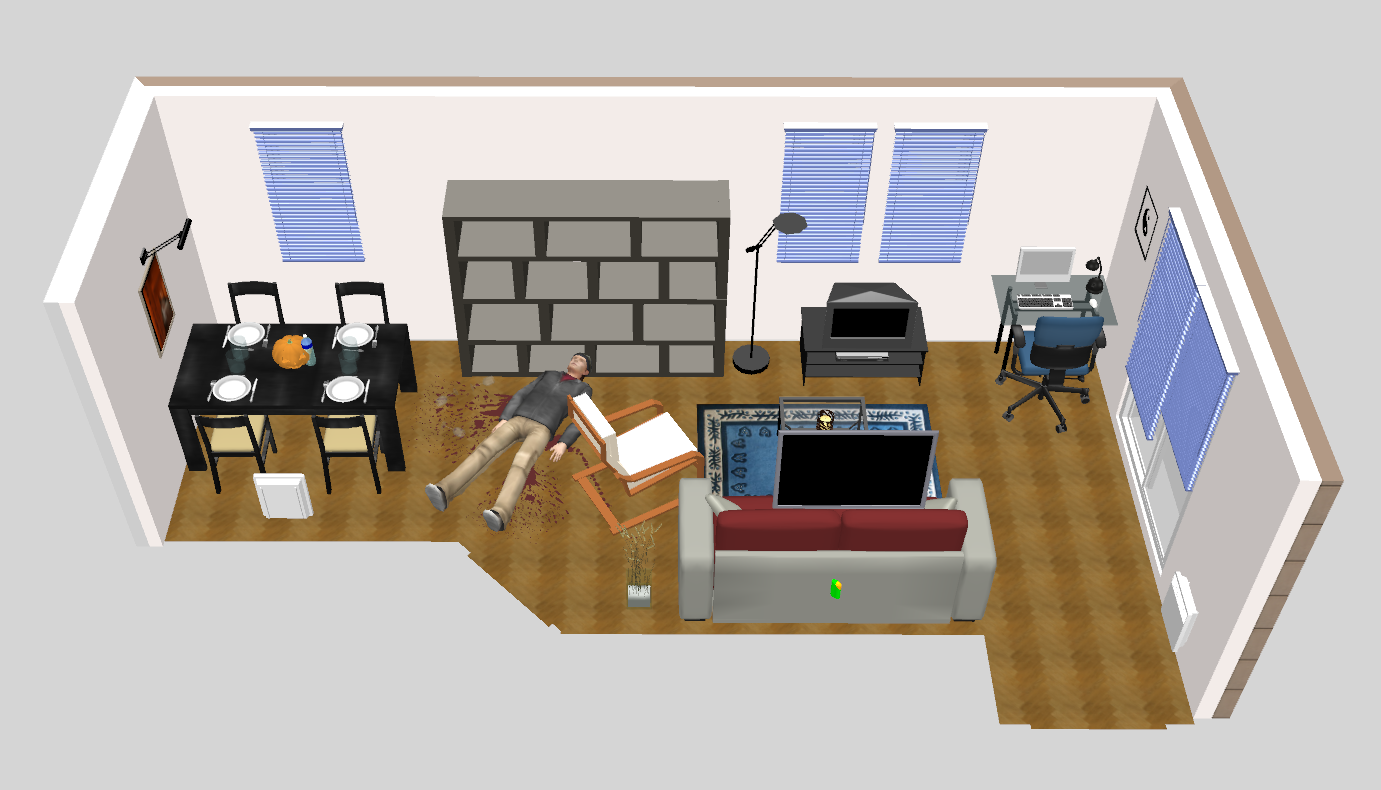
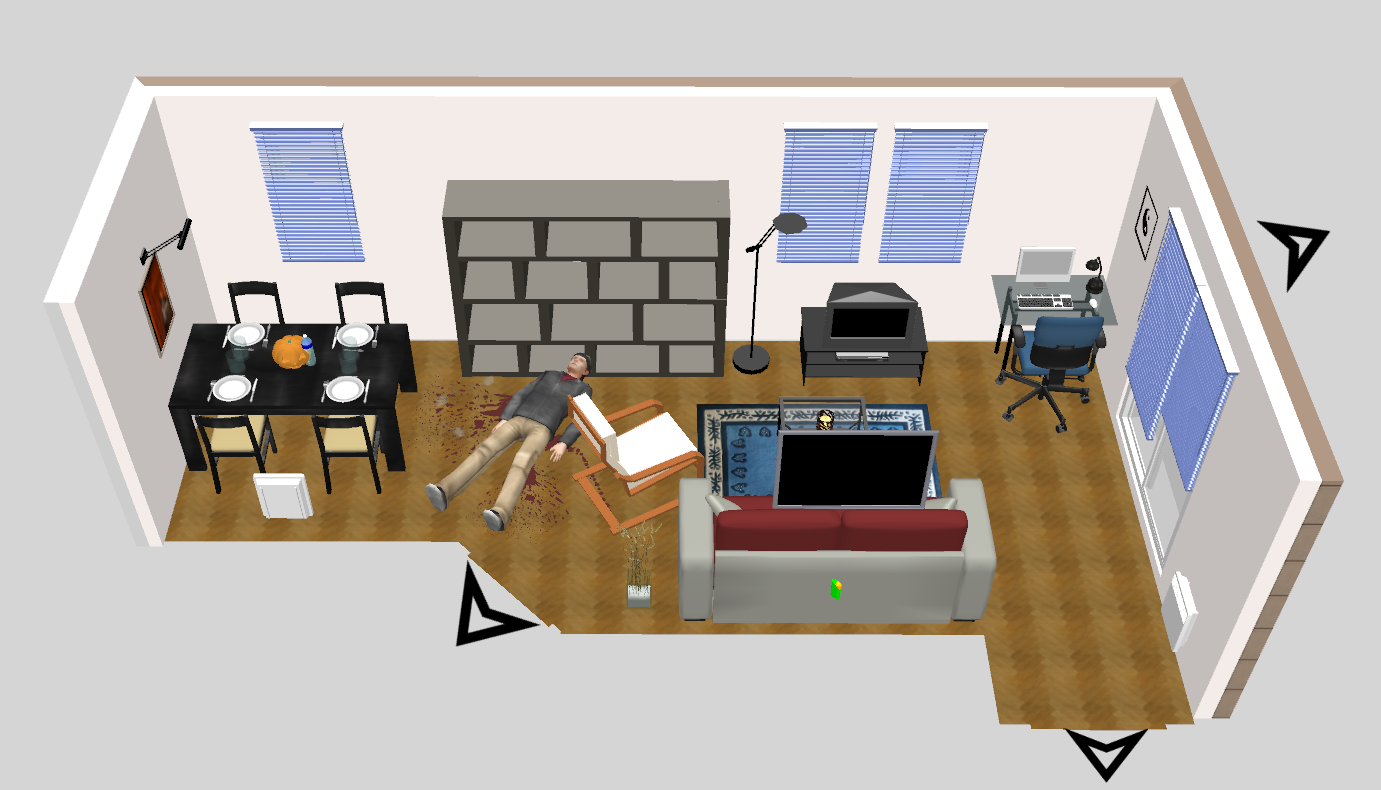
added arrow on img for direction

Changed region(s): [[0.3114, 0.7291, 0.4048, 0.8203], [0.7784, 0.9114, 0.8407, 1.0], [0.903, 0.2734, 0.9652, 0.3646]]

diff --git a/projet-48h/src/components/ui/input-otp.tsx b/projet-48h/src/components/ui/input-otp.tsx
@@ -1,0 +1,77 @@
+"use client"
+
+import * as React from "react"
+import { OTPInput, OTPInputContext } from "input-otp"
+import { MinusIcon } from "lucide-react"
+
+import { cn } from "@/lib/utils"
+
+function InputOTP({
+  className,
+  containerClassName,
+  ...props
+}: React.ComponentProps<typeof OTPInput> & {
+  containerClassName?: string
+}) {
+  return (
+    <OTPInput
+      data-slot="input-otp"
+      containerClassName={cn(
+        "flex items-center gap-2 has-disabled:opacity-50",
+        containerClassName
+      )}
+      className={cn("disabled:cursor-not-allowed", className)}
+      {...props}
+    />
+  )
+}
+
+function InputOTPGroup({ className, ...props }: React.ComponentProps<"div">) {
+  return (
+    <div
+      data-slot="input-otp-group"
+      className={cn("flex items-center", className)}
+      {...props}
+    />
+  )
+}
+
+function InputOTPSlot({
+  index,
+  className,
+  ...props
+}: React.ComponentProps<"div"> & {
+  index: number
+}) {
+  const inputOTPContext = React.useContext(OTPInputContext)
+  const { char, hasFakeCaret, isActive } = inputOTPContext?.slots[index] ?? {}
+
+  return (
+    <div
+      data-slot="input-otp-slot"
+      data-active={isActive}
+      className={cn(
+        "data-[active=true]:border-ring data-[active=true]:ring-ring/50 data-[active=true]:aria-invalid:ring-destructive/20 dark:data-[active=true]:aria-invalid:ring-destructive/40 aria-invalid:border-destructive data-[active=true]:aria-invalid:border-destructive dark:bg-input/30 border-input relative flex h-9 w-9 items-center justify-center border-y border-r text-sm shadow-xs transition-all outline-none first:rounded-l-md first:border-l last:rounded-r-md data-[active=true]:z-10 data-[active=true]:ring-[3px]",
+        className
+      )}
+      {...props}
+    >
+      {char}
+      {hasFakeCaret && (
+        <div className="pointer-events-none absolute inset-0 flex items-center justify-center">
+          <div className="animate-caret-blink bg-foreground h-4 w-px duration-1000" />
+        </div>
+      )}
+    </div>
+  )
+}
+
+function InputOTPSeparator({ ...props }: React.ComponentProps<"div">) {
+  return (
+    <div data-slot="input-otp-separator" role="separator" {...props}>
+      <MinusIcon />
+    </div>
+  )
+}
+
+export { InputOTP, InputOTPGroup, InputOTPSlot, InputOTPSeparator }

diff --git a/projet-48h/src/app/balcon/page.tsx b/projet-48h/src/app/balcon/page.tsx
@@ -11,7 +11,7 @@ export default function Balcon() {
     return (
         <div className="h-screen w-screen bg-[url(/assets/image/balcon.png)] bg-no-repeat bg-contain bg-center bg-[#D5D5D5]">
             <Dialog>
-            <DialogTrigger className="absolute w-[120px] h-[85px] right-[44%] top-[68%] cursor-pointer hover:bg-red-600 opacity-20"></DialogTrigger>
+            <DialogTrigger className="absolute w-[100px] h-[100px] right-[43%] top-[68%] cursor-pointer hover:bg-red-600 opacity-20"></DialogTrigger>
             <DialogContent className="top-[20%] w-[80%] h-[20%]">
                 <DialogHeader>
                 <DialogTitle>le chien</DialogTitle>
@@ -23,7 +23,7 @@ export default function Balcon() {
             </Dialog>
 
             <Dialog>
-            <DialogTrigger className="absolute w-[180px] h-[170px] right-[32%] top-[51%] cursor-pointer hover:bg-red-600 opacity-20"></DialogTrigger>
+            <DialogTrigger className="absolute w-[200px] h-[200px] right-[28%] top-[51%] cursor-pointer hover:bg-red-600 opacity-20"></DialogTrigger>
             <DialogContent className="top-[20%] w-[80%] h-[20%]">
                 <DialogHeader>
                 <DialogTitle>un transat</DialogTitle>

diff --git a/projet-48h/src/app/bureau/page.tsx b/projet-48h/src/app/bureau/page.tsx
@@ -1,5 +1,32 @@
+import {
+    Dialog,
+    DialogContent,
+    DialogDescription,
+    DialogHeader,
+    DialogTitle,
+    DialogTrigger,
+  } from "@/components/ui/dialog"
+  import {
+    InputOTP,
+    InputOTPGroup,
+    InputOTPSeparator,
+    InputOTPSlot,
+  } from "@/components/ui/input-otp"
+
 export default function Bureau() {
     return (
-        <div className="h-screen w-screen bg-[url(/assets/image/bureau.png)] bg-no-repeat bg-contain bg-center bg-[#D5D5D5]"></div>
+        <div className="h-screen w-screen bg-[url(/assets/image/bureau.png)] bg-no-repeat bg-contain bg-center bg-[#D5D5D5] ">
+            <Dialog>
+            <DialogTrigger className="absolute w-[70px] h-[60px] right-[48%] top-[40%] cursor-pointer hover:bg-red-600 opacity-20"></DialogTrigger>
+            <DialogContent className="top-[20%] w-[80%] h-[20%]">
+                <DialogHeader>
+                <DialogTitle>Ordinateur portable</DialogTitle>
+                <DialogDescription>
+                    Entrez le mot de passe pour déverrouiller l'ordinateur
+                </DialogDescription>
+                </DialogHeader>
+            </DialogContent>
+            </Dialog>
+        </div>
     );
   }
